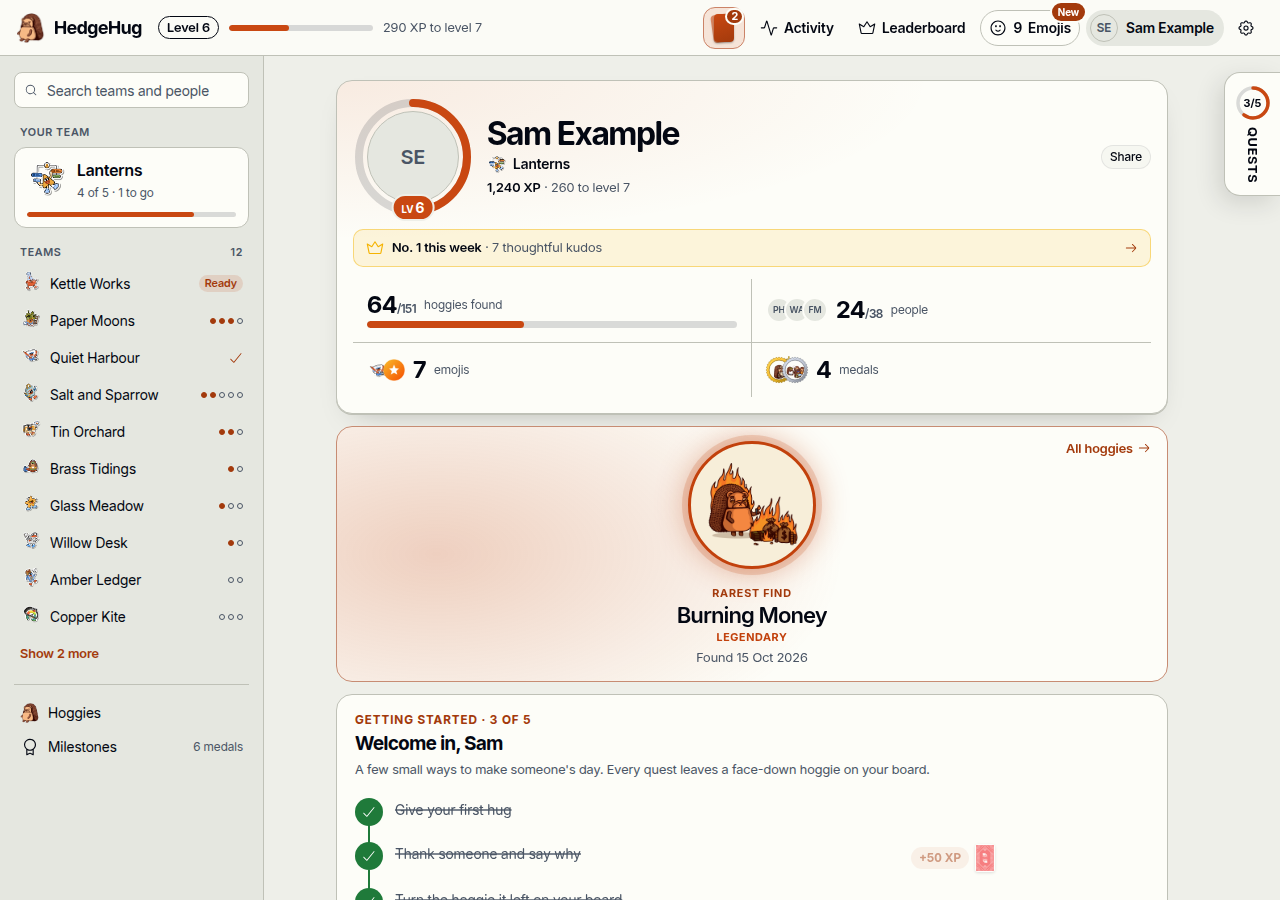
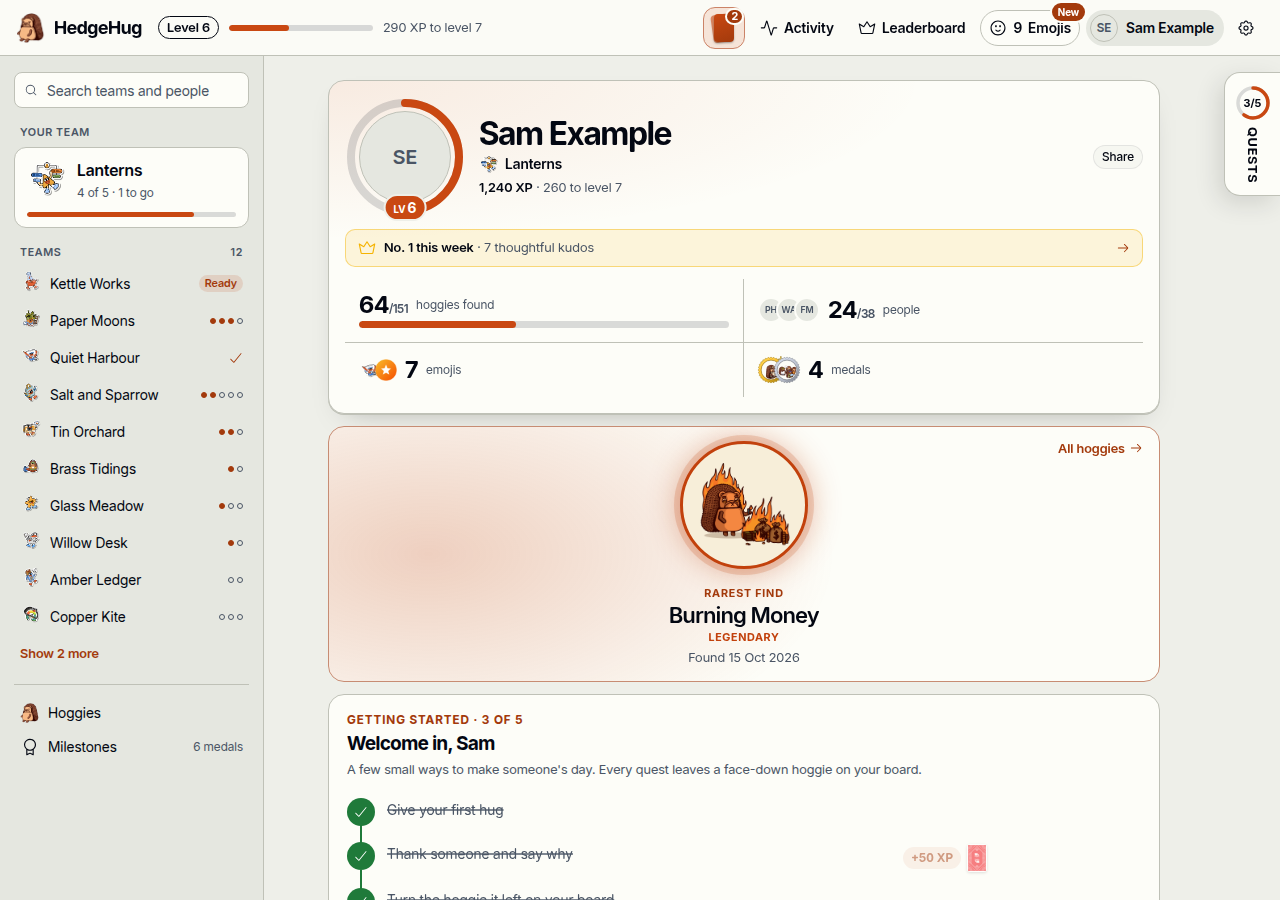
Clear the folded quests tab by the page's own 2 rem, past a team's unlock seal
A team's unlock seal sits 1.5 rem past its card, so a 1 rem gap still let it
reach under the tab at 1024 px. The walk now covers that team page.

diff --git a/website/proof/183-folded-tab/seal.js b/website/proof/183-folded-tab/seal.js
@@ -1,0 +1,9 @@
+(() => {
+  scrollTo(0, document.body.scrollHeight);
+  const seal = document.querySelector(".al-seal-spot button") ?? document.querySelector(".al-seal-spot");
+  const tab = document.querySelector(".al-quests-tab").getBoundingClientRect();
+  const r = seal.getBoundingClientRect();
+  const y = Math.min(Math.max(r.top + 4, tab.top + 4), r.bottom - 4);
+  const hit = document.elementFromPoint(r.right - 2, y);
+  return JSON.stringify({ sealRight: Math.round(r.right), tabLeft: Math.round(tab.left), hitsTab: !!hit?.closest(".al-quests-tab") });
+})()

diff --git a/website/src/album/quests.css b/website/src/album/quests.css
@@ -29,7 +29,7 @@
 
 @media (min-width: 64rem) {
   .al-shell:has(.al-quests-tab) .al-main {
-    padding-right: calc(var(--al-quests-tab-width) + 1rem);
+    padding-right: calc(var(--al-quests-tab-width) + 2rem);
   }
 }
 

diff --git a/website/proof/183-folded-tab/README.md b/website/proof/183-folded-tab/README.md
@@ -1,15 +1,16 @@
 # Slice D3 proof: the folded quests tab never covers page controls
 
-Slice D3 of `spec/monday-quests.md` (MQ38–MQ40). At 1280 px the folded "Quests n/m" tab covered the right end of the leaderboard's "All time" period switch. From 64 rem up, while the tab shows, the page now keeps a right-hand gutter as wide as the tab plus 1 rem, so no control sits under it at any scroll position.
+Slice D3 of `spec/monday-quests.md` (MQ38–MQ40). At 1280 px the folded "Quests n/m" tab covered the right end of the leaderboard's "All time" period switch. From 64 rem up, while the tab shows, the page now keeps a right-hand gutter as wide as the tab plus the page's own 2 rem padding, so no control sits under it at any scroll position.
 
 The walk ran on production builds (`vite build`, then `vite preview`) of the committed shell fixtures `album-quests` (a Monday-path member, page D on) and `album-person-page-d` (off the Monday path). All members are made up.
 
 ## Red and green
 
-`walk.sh <origin>` folds the panel and visits seven album pages at 1024, 1280, 1440 and 1536 px. On each, `measure.js` lists every control in the page whose visible box reaches into the tab's column, clipped to its scroll container, so a control that scrolls under the fixed tab counts too.
+`walk.sh <origin>` folds the panel and visits eight album pages, a team page with an unlock seal among them, at 1024, 1280, 1440 and 1536 px. On each, `measure.js` lists every control in the page whose visible box reaches into the tab's column, clipped to its scroll container, so a control that scrolls under the fixed tab counts too.
 
-- **Red**, before the change: [`before.txt`](before.txt). "All time" sits under the tab at 1280, 1440 and 1536 px, and the hoggies grid, the activity weeks, the profile's cards and the settings switches reach under it at 1024 px.
-- **Green**, after: [`after.txt`](after.txt). No control on any page at any width.
+- **Red**, before the change, on the first seven pages: [`before.txt`](before.txt). "All time" sits under the tab at 1280, 1440 and 1536 px, and the hoggies grid, the activity weeks, the profile's cards and the settings switches reach under it at 1024 px.
+- **Red after the first fix**, found by review round 1: [`round-1-before.txt`](round-1-before.txt). With a 1 rem gap, a team's unlock seal, which sits 1.5 rem past its card, still reached under the tab at 1024 px. [`seal.js`](seal.js) scrolls the team page to the bottom at 1024×260 and asks the browser what a click at the seal's right edge hits: the tab. `before-team-seal-1024x260.png`
+- **Green**, after: [`after.txt`](after.txt). No control on any of the eight pages at any width. With the 2 rem gap the seal ends 6 px left of the tab, and the same click hits the seal: `after-team-seal-1024x260.png`
 
 `click.js` asks the browser which element answers a click at the right end of "All time". Before: the tab, `Quests, 3 of 5 done`, at 1280 and 1440 px. After: "All time", which a click then presses.
 
